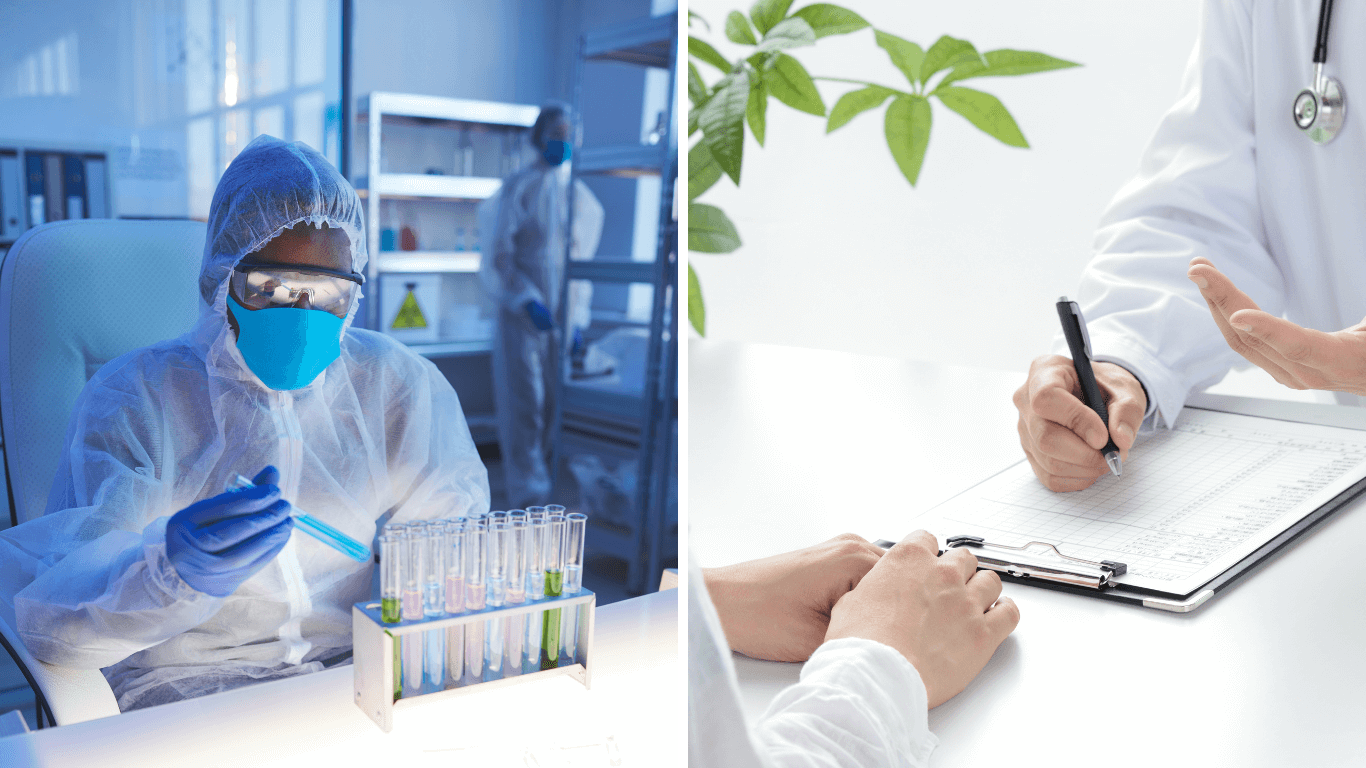
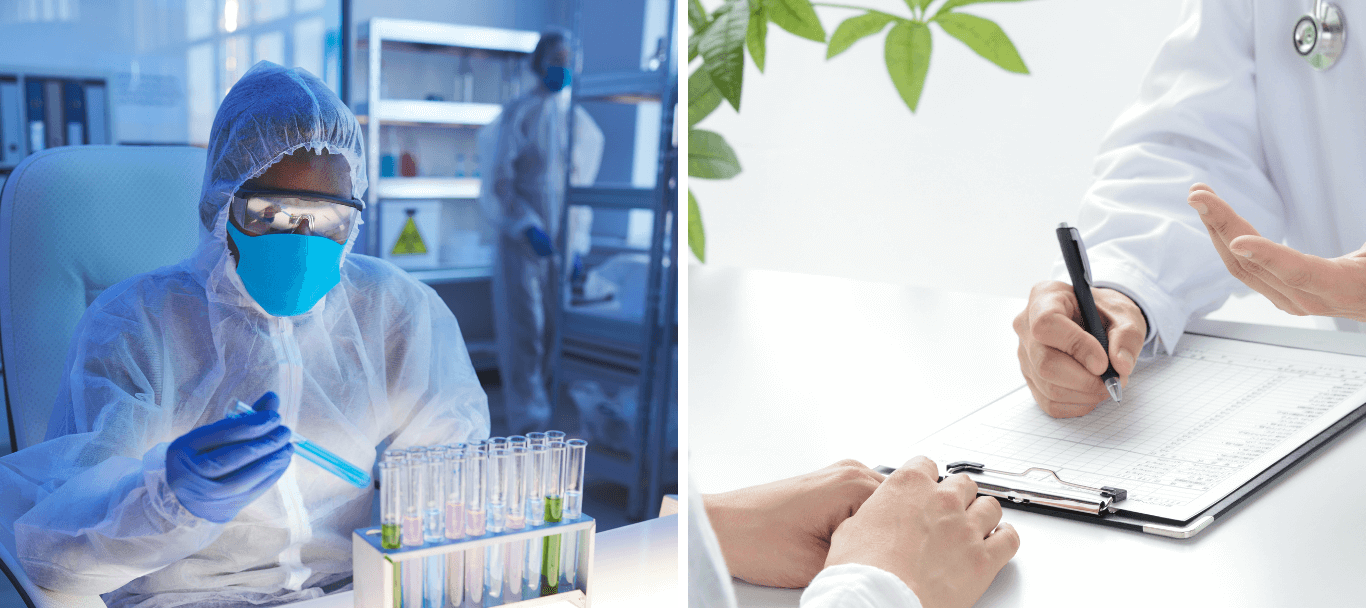
portada responsive styling

diff --git a/css/index.css b/css/index.css
@@ -24,7 +24,7 @@
 }
 
 body {
-    padding: 50px 0px 0px 0px;
+    /* padding: 50px 0px 0px 0px; */
     z-index: 0;
     background-color: #004aad;
     position: relative;
@@ -42,9 +42,28 @@ p {
     font-family: Alike;
 }
 
+.titulo {
+    background-image: url("../assets/squircle.svg");
+    background-repeat: no-repeat;
+    /* background-position: 0px -50px; */
+    /* background: #0F2027;
+    background: -webkit-linear-gradient(to right, #2C5364, #203A43, #0F2027);
+    background: linear-gradient(to right, #2C5364, #203A43, #0F2027); */
+}
+
+.oyd {
+    font-family: OleoScript;
+    font-weight: 900;
+}
+
 #whatdoing {
     font-family: CabinSketch;
     color: #ffde59;
+}
+
+.neon {
+    font-size: 40px;
+    font-family: Colo-pro;
 }
 
 #waves.recuadro {
@@ -125,18 +144,11 @@ p {
 }
 
 .bottom {
-    /* text-align: left; */
     position: absolute;
     bottom: 10%;
     right: 5%;
     background-color: black;
     box-shadow: 10px 10px #233dff;
-}
-
-.oyd {
-    font-family: OleoScript;
-    font-weight: 900;
-    /* font-size: 30px; */
 }
 
 #angulo {
@@ -146,11 +158,6 @@ p {
     -o-transform: rotate(-15deg);
     transform: rotate(-15);
     font-size: 30px;
-}
-
-.neon {
-    font-size: 40px;
-    font-family: Colo-pro;
 }
 
 #primero {
@@ -175,6 +182,14 @@ p {
 /* xl and beyond */
 
 @media screen and (min-width: 1200px) {
+    .top {
+        top: 10%;
+        left: 5%;
+        font-size: 60px;
+    }
+    .arrow {
+        width: 50px;
+    }
     #waves.recuadro {
         font-size: 26.8px;
     }
@@ -208,6 +223,14 @@ p {
 /* lg */
 
 @media screen and (max-width: 1200px) {
+    .top {
+        top: 10%;
+        left: 5%;
+        font-size: 60px;
+    }
+    .arrow {
+        width: 50px;
+    }
     #waves.recuadro {
         font-size: 26.8px;
     }
@@ -241,6 +264,14 @@ p {
 /* md */
 
 @media screen and (max-width: 992px) {
+    .top {
+        top: 10%;
+        left: 5%;
+        font-size: 50px;
+    }
+    .arrow {
+        width: 50px;
+    }
     #nubes.recuadro {
         font-size: 30.5px;
     }
@@ -253,6 +284,14 @@ p {
 /* sm */
 
 @media screen and (max-width: 768px) {
+    .top {
+        top: 10%;
+        left: 5%;
+        font-size: 40px;
+    }
+    .arrow {
+        width: 40px;
+    }
     #nubes.recuadro {
         font-size: 30.5px;
     }
@@ -266,6 +305,21 @@ p {
 /* xs */
 
 @media screen and (max-width: 576px) {
+    .top {
+        top: 15%;
+        left: 5%;
+        font-size: 25px;
+        text-align: center;
+    }
+    .bottom {
+        bottom: 10%;
+        right: 5%;
+        background-color: black;
+        box-shadow: 5px 5px #233dff;
+    }
+    .arrow {
+        width: 35px;
+    }
     #waves.recuadro {
         border-left: none;
         border-right: none;
@@ -279,5 +333,11 @@ p {
     }
     #glucosa {
         text-align: left;
+    }
+}
+
+@media screen and (max-width: 370px) {
+    .arrow {
+        width: 25px;
     }
 }

diff --git a/index.html b/index.html
@@ -25,34 +25,32 @@
 </head>
 
 <body>
-    <p class="sticky-top text-white" id="medidas">medidas</p>
+    <p class="sticky-top text-white" id="medidas" style="padding: 0px; margin: 0px;">medidas</p>
     <div class="container-fluid">
         <!-- <div class="container"> -->
-        <div class="row align-items-center text-center text-white caja">
+        <div class="row align-items-center text-center text-white caja" style="margin: 20px 0px;">
             <div class="col p-0">
-                <img src="img/portada.png " class="img-fluid" style="opacity: 40%;" alt="portada">
+                <img src="img/portada.png" class="img-fluid" style="opacity: 40%;" alt="portada">
                 <h1 class="top">Proyecto Disbiosis, <br> Obesidad y Diabetes</h1>
                 <div class="bottom">
-                    <!-- <h3>Baja para <br> saber mas</h3>
-                    <img src="assets/arrow.gif" class="img-fluid" style="width: 50px;" alt="arrow"> -->
                     <div class="row">
                         <div class="col d-none d-sm-block align-self-center">
                             <a href="#start" style="color: white;">
-                                <h5>Baja para saber mas</h5>
+                                <p style="margin: 0;">Baja para saber mas <img src="assets/arrow.gif" class="img-fluid arrow" alt="arrow"></p>
                             </a>
                         </div>
-                        <div class="col align-self-center">
-                            <img src="assets/arrow.gif" class="img-fluid" style="width: 50px;" alt="arrow">
+                        <div class="col d-sm-none align-self-center">
+                            <a href="#start"><img src="assets/arrow.gif" class="img-fluid arrow" alt="arrow"></a>
                         </div>
+
                     </div>
                 </div>
 
             </div>
         </div>
 
-
         <div class="row justify-content-evenly">
-            <h1 class="text-center" style="color: #7ddcfa;" id="start">¿QUE ES DISBIOSIS?</h1>
+            <h1 class="titulo text-center" style="color: #7ddcfa;" id="start">¿QUE ES DISBIOSIS?</h1>
             <div class="col-6 align-self-center text-white" style="padding-right: 0;">
                 <!-- <h1 class="d-none d-sm-block text-center" style="color: #7ddcfa;">¿QUE ES DISBIOSIS?</h1> -->
                 <p class="disbiosis">
